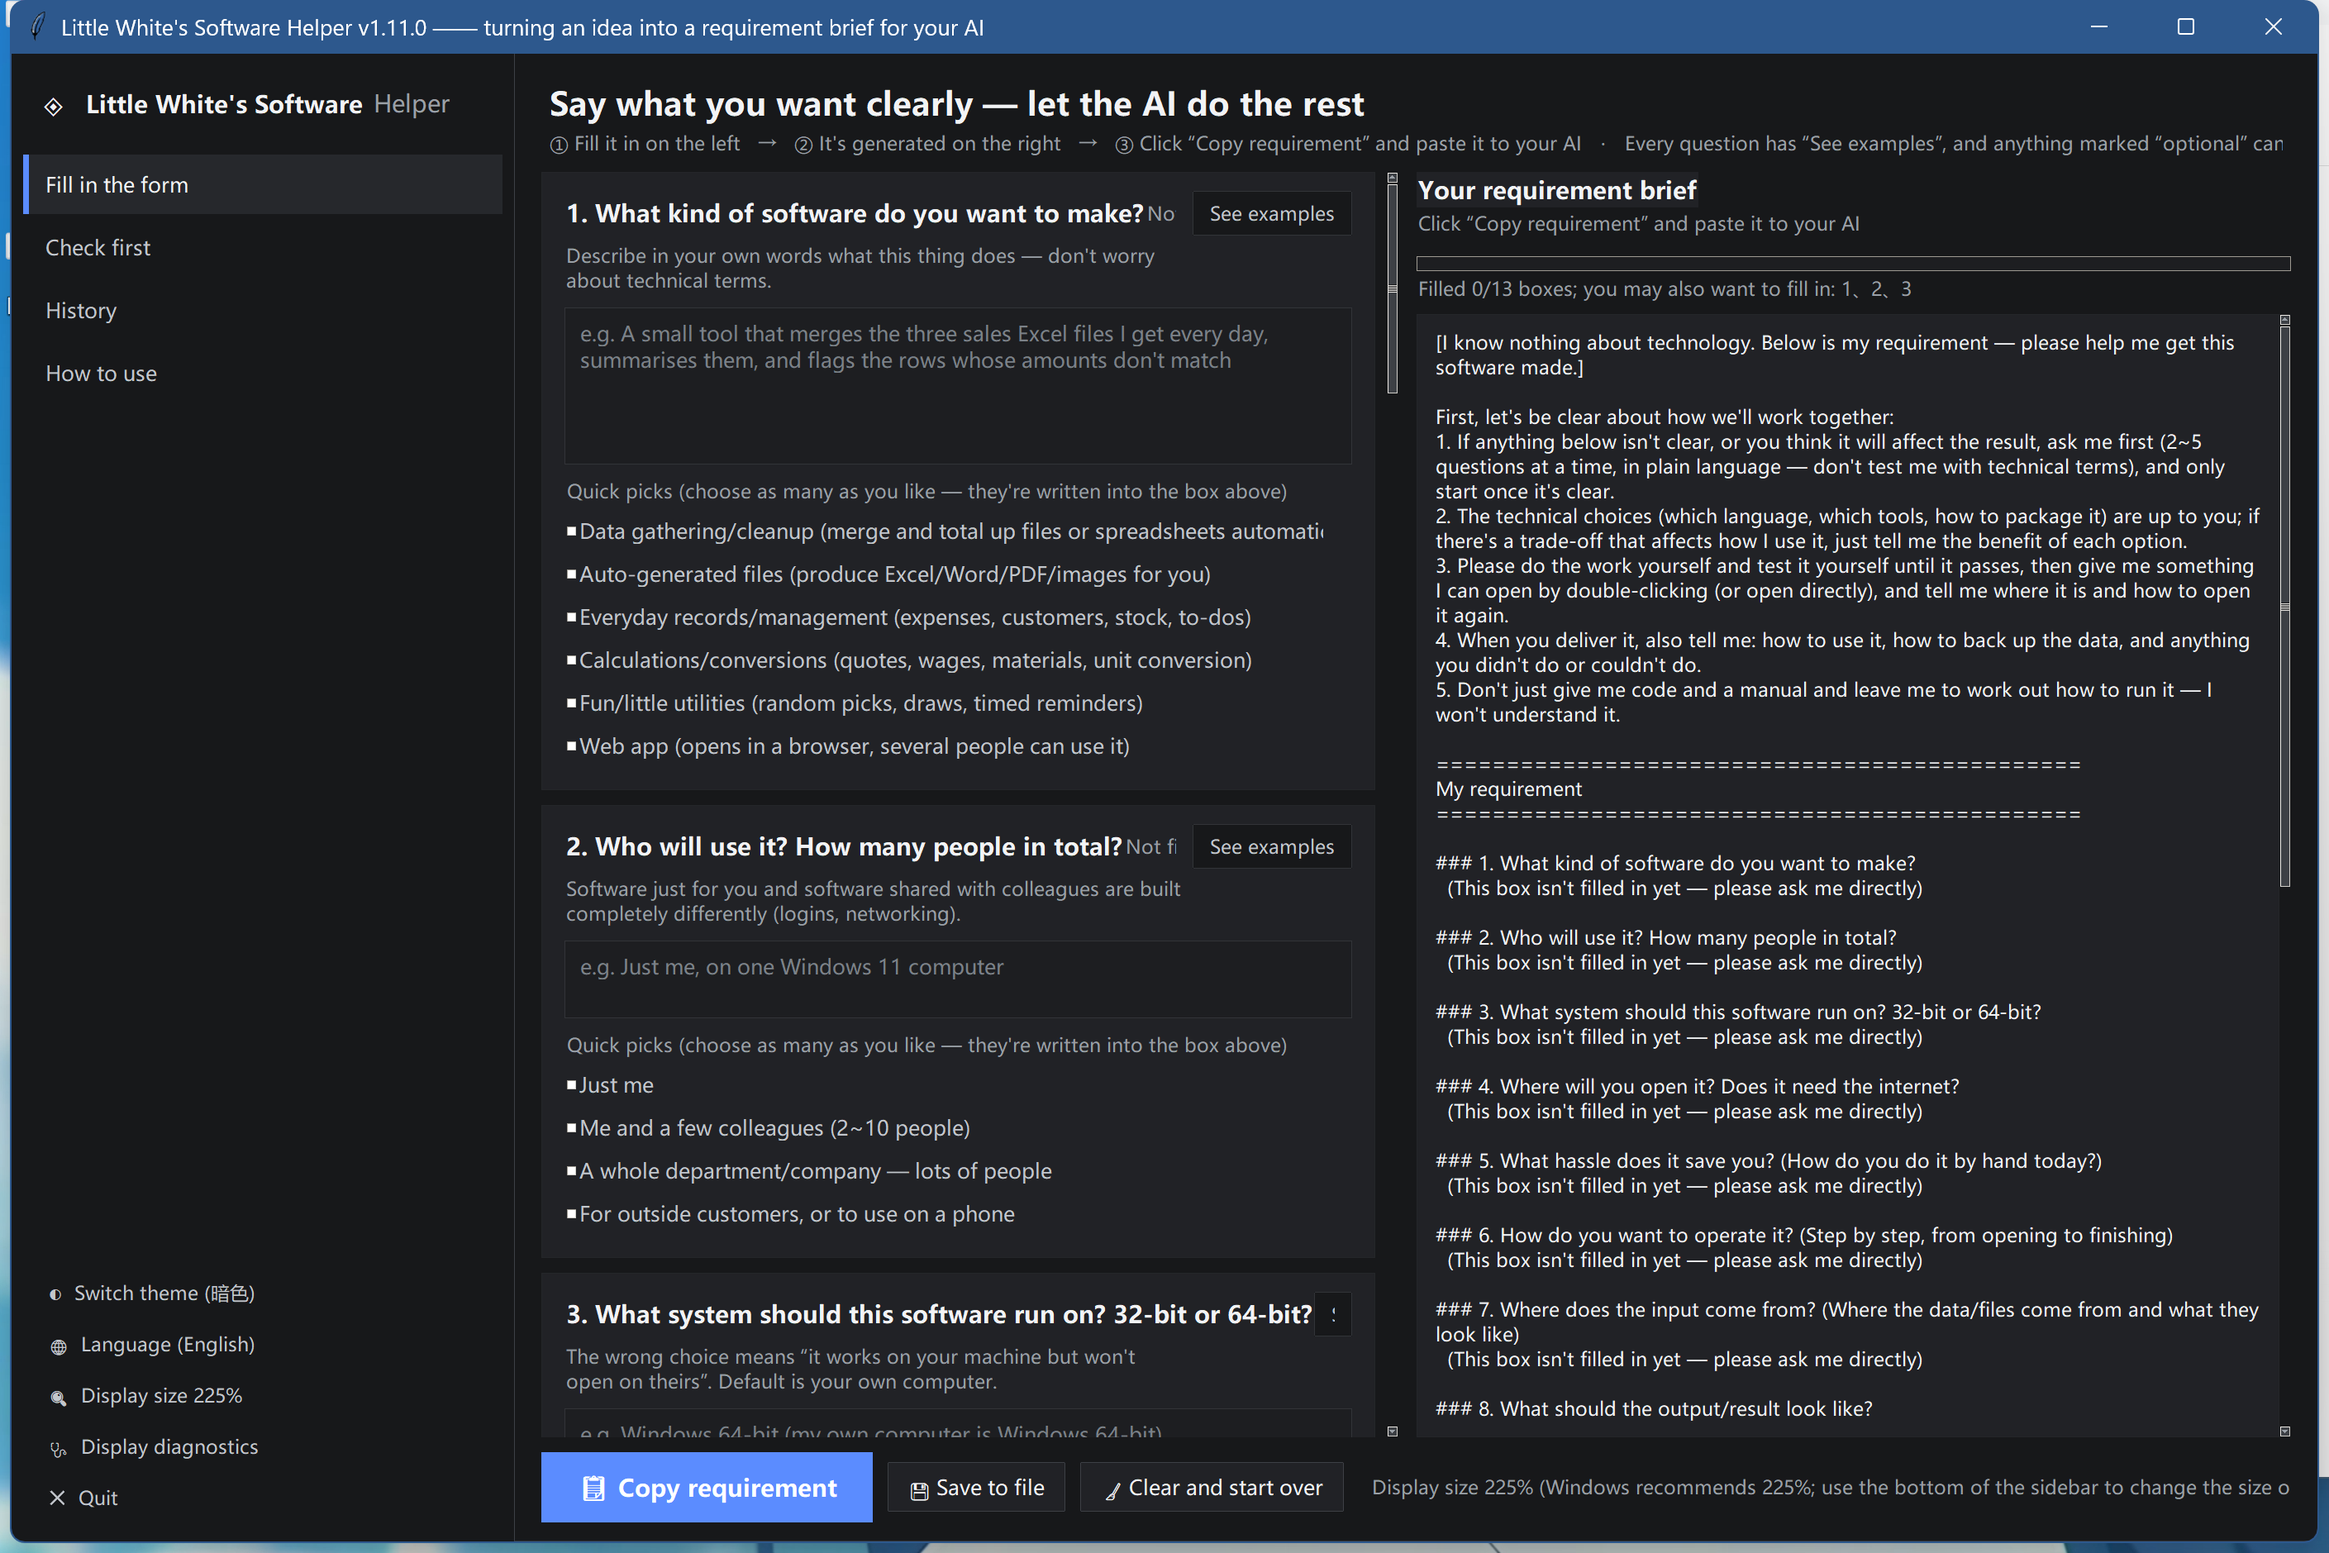
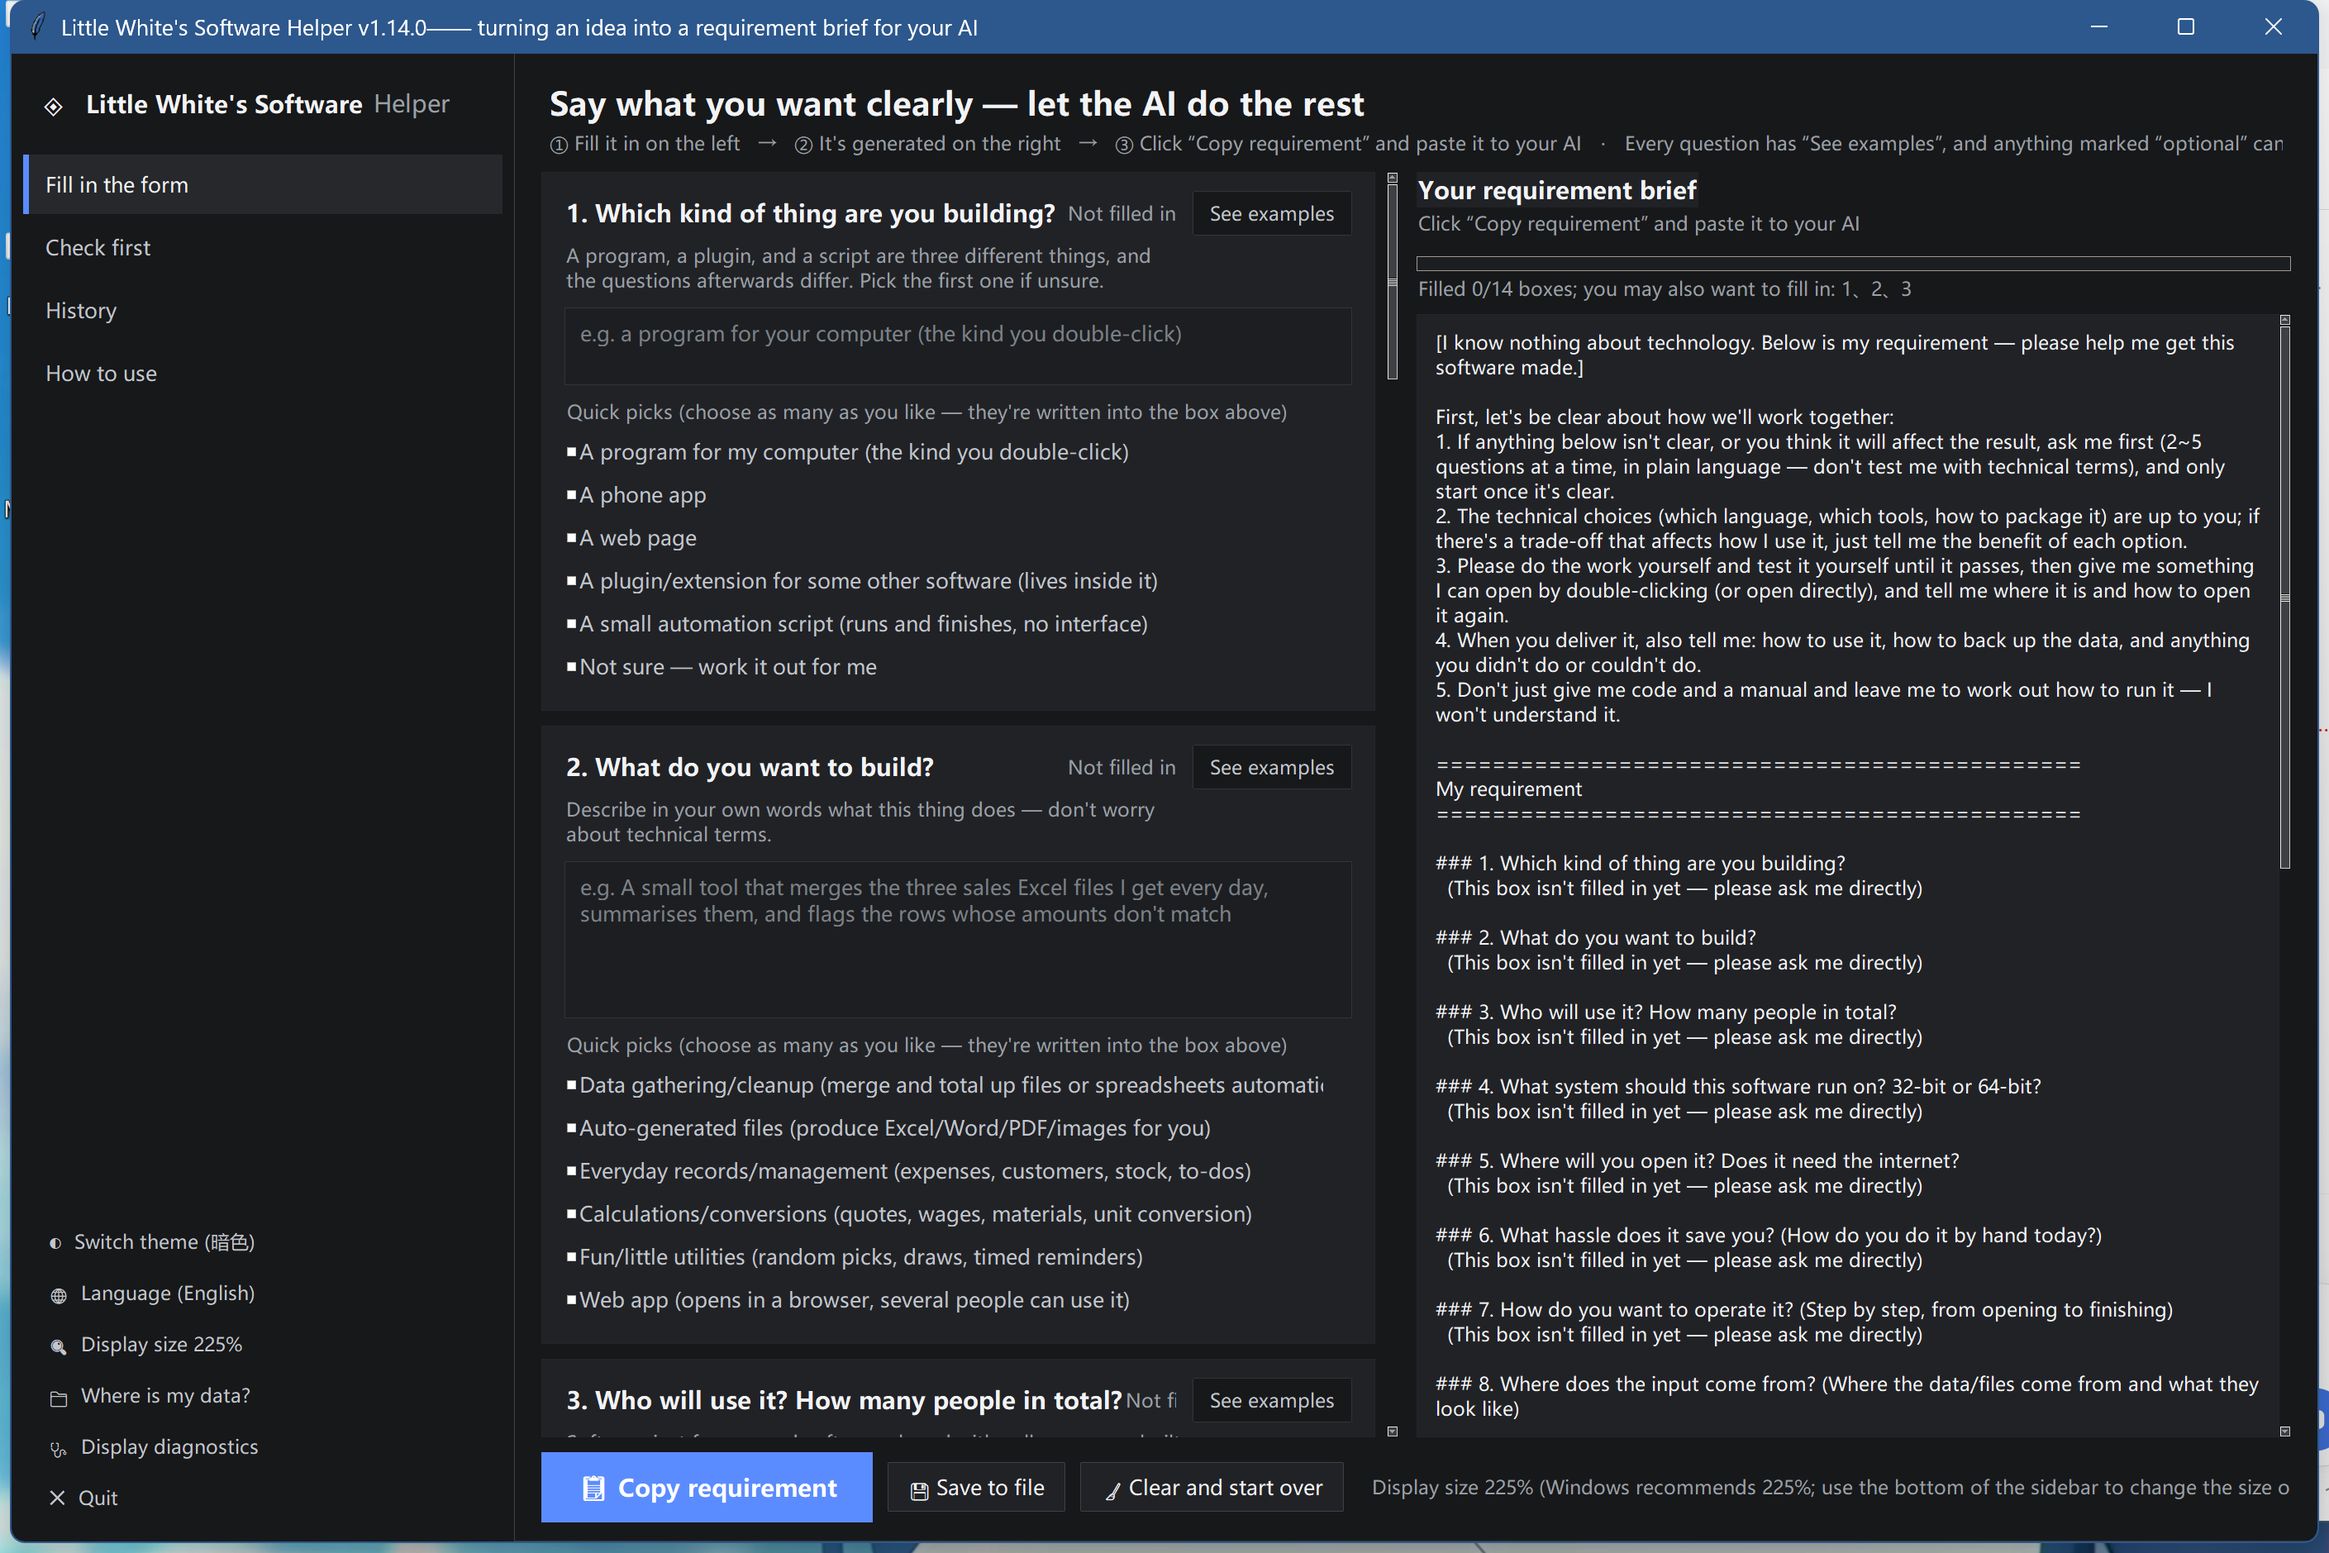
重截 5 张截图 + 修两个「按页名选页」的真 bug
## 1. 重截截图（原来的是 v1.10/v1.11 的旧界面）

README 里用的 5 张截图停留在 v1.10/v1.11，界面已经变了很多：
侧栏少了「📁 存档保存在哪」、问卷没有新增的第 1 题「你要做的是哪一种」、
手机 App 选项也没体现。别人打开仓库第一眼看到的是过时界面。

现在全部按 v1.14.0 重截：
  assets/screenshot-dark.png     简体 · 暗色
  assets/screenshot-light.png    简体 · 浅色
  assets/screenshot-zh-tw.png    繁體 · 暗色
  assets/screenshot-en.png       英文 · 暗色
  assets/screenshot-lookup.png   先查查页（简体 · 暗色）

## 2. 修 bug：select_page_by_key 静默回退到第一页

想用 XBSH_PAGE 截「先查查」页时发现截出来的是「填写需求」页。
追下去是同一个老毛病换了个地方复发 —— **不报错、只是打开错的页**：

· 它内部只认英文 key（fill/lookup/history/about），拿中文页名去调
  会**静默回退到第一页**，而且**不返回成功与否**，调用方无从判断
· 于是 XBSH_PAGE 传页名的那条路一直没生效过（我上一轮加的）

改法：
· 接受内部 key / 当前语言显示名 / 简体中文出厂名 三种写法
· **认不出来时返回 False 且不改变当前页**（不再静默跳第一页）
· 抽出 PAGE_KEYS 常量，与 PAGES（会随语言变的显示名）明确分开

## 3. 补回归测试（selftest_pages.py 7 项 → 10 项）

select_page_by_key 已经害我踩坑两次（show_about 用索引、
这次静默回退），所以补三条断言钉住：
· 返回值必须是 True/False，未知名字不改变当前页
· 用中文页名能正确定位
· PAGE_KEYS 稳定，且任何语言的显示名都不与内部 key 撞名
  （撞名会导致用显示名选错页）

验证：
· 13 个自检全部 exit=0（pages 从 7 项增到 10 项）
· 编码检查 61 文件 0 问题，三语覆盖 100% 无回退
· 新截图逐张肉眼核对过（版本号、侧栏、页面内容都对）

diff --git a/src/app.py b/src/app.py
@@ -1898,20 +1898,56 @@ class App:
         key = keys[index] if 0 <= index < len(keys) else "fill"
         self._show_page(key, index)
 
+    # 页面 key（内部用）与显示名（PAGES）的对应。
+    # ★ 两者必须分开：PAGES 是**会随语言变**的显示名，
+    #   key 是稳定标识。早先 select_page_by_key 只认 key，
+    #   于是拿中文页名去调它会**静默回退到第一页** —— 又是
+    #   「不报错、只是打开错的页」这个老毛病换了个地方复发。
+    PAGE_KEYS = ("fill", "lookup", "history", "about")
+
     def select_page_by_key(self, key):
-        """按页面名切换。
+        """按页面名或 key 切换。**返回是否成功**。
 
         为什么要有这个入口：**索引会随插页而位移**。
         新增「先查查」页后，原来 show_about() 里的 _select_page(2)
         就从「使用说明」变成了「历史记录」，而且不报错、只是打开错的页。
         凡是"指到某一页"的地方都应按名字来。
+
+        接受的输入（按顺序尝试）：
+          · 内部 key：fill / lookup / history / about
+          · 当前语言的显示名：填写需求 / 先查查 / …
+          · 简体中文显示名：即使界面切到英文，用中文名也能定位
+            （自检、截图脚本、XBSH_PAGE 用中文更自然）
+
+        ★ 认不出来时**返回 False 且什么都不做**，不再静默跳到第一页 ——
+          静默回退会让调用方以为成功了（真踩过）。
         """
-        keys = ("fill", "lookup", "history", "about")
-        if key not in keys:
-            key = "fill"
-        idx = keys.index(key)
+        keys = list(self.PAGE_KEYS)
+        want = str(key or "").strip()
+        if want in keys:
+            idx = keys.index(want)
+            page_key = want
+        else:
+            # 显示名 → key 的映射。同时放「当前语言的显示名」和
+            # 「简体中文出厂名单」，这样界面切到英文后用中文名也能定位。
+            name_to_key = {}
+            for i, pk in enumerate(keys):
+                try:
+                    label = self.PAGES[i]
+                except (IndexError, TypeError):
+                    label = None
+                if label:
+                    name_to_key[str(label)] = pk
+            # 简体中文出厂名（与 _build_sidebar 里的 PAGES 定义一致）
+            for label, pk in zip(("填写需求", "先查查", "历史记录", "使用说明"), keys):
+                name_to_key.setdefault(label, pk)
+            page_key = name_to_key.get(want)
+            if page_key is None:
+                return False
+            idx = keys.index(page_key)
         self.page_index = idx
-        self._show_page(key, idx)
+        self._show_page(page_key, idx)
+        return True
 
     def _show_page(self, key, index):
         for name, frame in getattr(self, "pages", {}).items():
@@ -3210,12 +3246,25 @@ def main():
 
     app = App(root)
     # 允许用环境变量指定打开哪一页（截图脚本用；正常启动不受影响）
+    #
+    # ★ 支持**页名**也支持索引，页名优先。
+    #   页面索引会随插入新页而漂移（加了「先查查」之后，原来的 1
+    #   从「历史记录」变成了「先查查」），用索引会静默打开错的页 ——
+    #   实测踩过：show_about() 用索引 2，插页后跳到了「历史记录」。
     _page = os.environ.get("XBSH_PAGE")
     if _page is not None:
-        try:
-            app._select_page(max(0, min(len(App.PAGES) - 1, int(_page))))
-        except (TypeError, ValueError):
-            pass
+        _spec = _page.strip()
+        _done = False
+        if not _spec.lstrip("-").isdigit():
+            try:
+                _done = bool(app.select_page_by_key(_spec))
+            except Exception:  # noqa: BLE001  名字不认识就当没指定
+                _done = False
+        if not _done:
+            try:
+                app._select_page(max(0, min(len(App.PAGES) - 1, int(_spec))))
+            except (TypeError, ValueError):
+                pass
     app.set_status(t("显示大小 %d%%（Windows 推荐 %d%%；侧栏底部可调大小、可看诊断）")
                    % (int(round(scale * 100)), int(round(recommended * 100))))
     app.set_status(app.status.cget("text") + t("；字号「%s」") % app._boost_label())

diff --git a/tools/selftest_pages.py b/tools/selftest_pages.py
@@ -132,12 +132,76 @@ def t_out_of_range_falls_back():
     gui._select_page(99)
     root.update_idletasks()
     assert shown_pages() == ["fill"], "越界索引应退回首页，实际 %s" % shown_pages()
-    gui.select_page_by_key("nonexistent")
+
+
+check("越界索引退回首页", t_out_of_range_falls_back)
+
+
+def t_select_by_key_returns_bool():
+    """★ 回归：select_page_by_key 必须**返回是否成功**，且认不出来时不改变页面。
+
+    真事故（两回）：
+      1. show_about() 用索引 2，插页后静默打开成「历史记录」
+      2. 它内部把无法识别的名字**静默回退到第一页** ——
+         于是调 select_page_by_key("先查查") 返回 None、停在首页；
+         XBSH_PAGE 传页名时正是这样，截图截成了「填写需求」页。
+    现在的约定：认不出来 → 返回 False 且**保持当前页不变**。
+    """
+    assert gui.select_page_by_key("about") is True
     root.update_idletasks()
-    assert shown_pages() == ["fill"], "未知页面名应退回首页"
+    before = shown_pages()
+    assert before == ["about"]
+    for bad in ("nonexistent", "先查查查", ""):
+        got = gui.select_page_by_key(bad)
+        root.update_idletasks()
+        assert got is False, "未知名字 %r 应返回 False，实际 %r" % (bad, got)
+        assert shown_pages() == before, \
+            "未知名字 %r 不该改变当前页（%s → %s）" % (bad, before, shown_pages())
 
 
-check("越界索引 / 未知页面名退回首页", t_out_of_range_falls_back)
+check("未知页面名返回 False 且不改变当前页", t_select_by_key_returns_bool)
+
+
+def t_select_by_chinese_display_name():
+    """★ 回归：用**中文页名**也要能定位。
+
+    为什么需要：截图脚本、自检、XBSH_PAGE 用中文名更自然；
+    而界面切到英文后 PAGES 是英文显示名，容易踩「名字对不上、
+    还静默回退到第一页」。
+    """
+    want = {"填写需求": "fill", "先查查": "lookup",
+            "历史记录": "history", "使用说明": "about"}
+    wrong = []
+    for label, key in want.items():
+        ok = gui.select_page_by_key(label)
+        root.update_idletasks()
+        got = shown_pages()
+        if not ok or got != [key]:
+            wrong.append("%s → 返回 %s，实际显示 %s（期望 %s）" % (label, ok, got, key))
+    assert not wrong, "中文页名定位失败：\n       " + "\n       ".join(wrong)
+
+
+check("用中文页名能定位到正确的页", t_select_by_chinese_display_name)
+
+
+def t_page_keys_are_stable():
+    """内部 key 与显示名必须分开：显示名随语言变，key 不能变。"""
+    assert A.App.PAGE_KEYS == EXPECTED, \
+        "PAGE_KEYS 变了：%s（会影响所有按 key 指页面的地方）" % (A.App.PAGE_KEYS,)
+    assert len(A.App.PAGE_KEYS) == len(A.App.PAGES), "PAGE_KEYS 与 PAGES 数量不一致"
+    # 任何语言的显示名都不该等于某个内部 key，否则用显示名会选错页
+    saved = gui.page_index
+    for loc in A.i18n.LANGS:
+        A.i18n.set_lang(loc)
+        for lb in A.App.PAGES:
+            t_lb = A.i18n.t(lb)
+            assert t_lb not in A.App.PAGE_KEYS, \
+                "[%s] 显示名 %r 与内部 key 撞名，用显示名会选错页" % (loc, t_lb)
+    A.i18n.set_lang("zh-CN")
+    gui.page_index = saved
+
+
+check("内部 key 稳定、任何语言的显示名都不与 key 撞名", t_page_keys_are_stable)
 
 
 def t_nav_highlight_matches():
